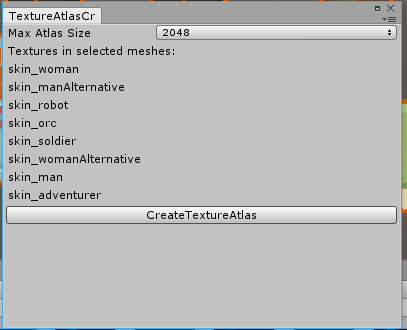
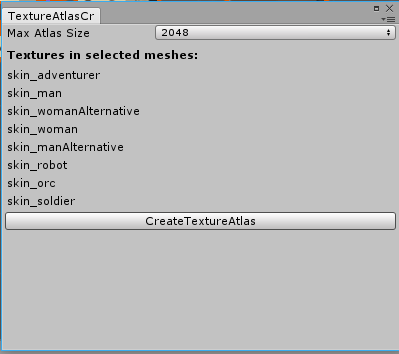
Update screenshot

Changed region(s): [[0.0, 0.0, 1.0, 1.0]]

diff --git a/Editor/TextureAtlasCreator.cs b/Editor/TextureAtlasCreator.cs
@@ -27,20 +27,26 @@ namespace TextureAtlasCreator
         {
             meshFilters = new List<MeshFilter>();
             textures = new List<Texture2D>();
-            Selection.selectionChanged += UpdateSelection;
             UpdateSelection();
         }
 
-        private void OnDisable()
+        private void OnSelectionChange()
         {
-            Selection.selectionChanged -= UpdateSelection;
+            UpdateSelection();
         }
 
         private void OnGUI()
         {
             AtlasSizeDropdown();
+
+            if (textures.Count == 0)
+            {
+                EditorGUILayout.HelpBox(string.Format("Can't find any material using {0} shader on selected objects", 
+                    shaderName), MessageType.Error);
+                return;
+            }
             
-            GUILayout.Label("Textures in selected meshes: ");
+            GUILayout.Label("Textures in selected meshes: ", EditorStyles.boldLabel);
             foreach (var texture in textures)
             {
                 GUILayout.Label(texture.name);
